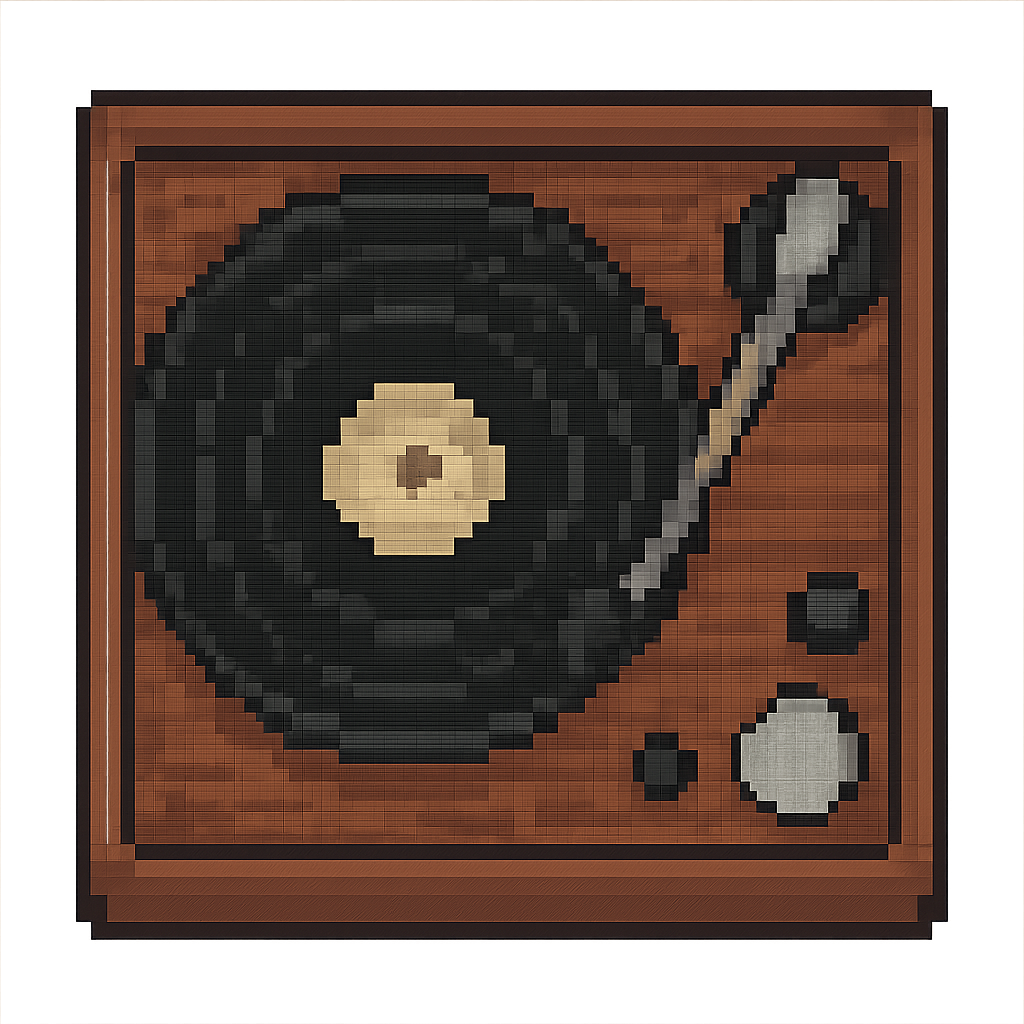
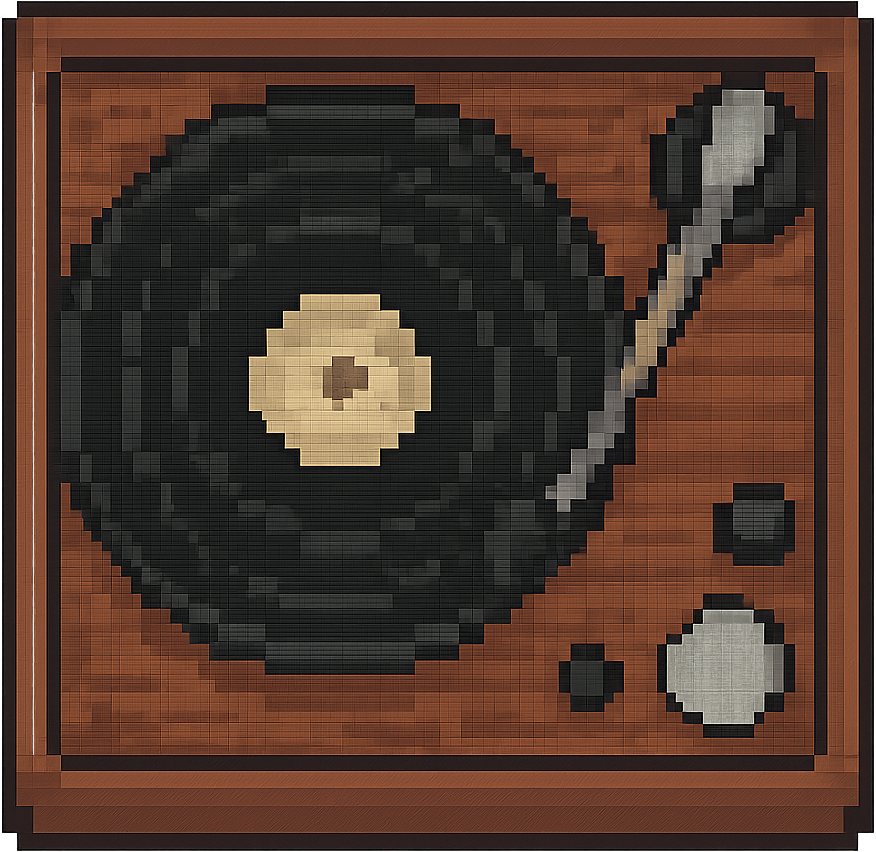
song fix

diff --git a/pages/Song.jsx b/pages/Song.jsx
@@ -1,7 +1,7 @@
 import React, { useRef, useState, useEffect } from 'react';
 import { Link } from 'react-router-dom'
 import Button from '../components/Btn'
-import gifCat from "../src/assets/images/hellokitt.gif"
+import gifSylveon from "../src/assets/images/sylveon.gif"
 import heartRain from "../src/assets/images/heart-rain.gif"
 import MusicPlayer from '../components/songs/MusicPlayer';
 import vinilPlayer from "../src/assets/images/music_player/vp.png"
@@ -25,29 +25,24 @@ const Song = () => {
         <Link to="/"><Button>back</Button></Link>
     </div>
 
-    <div className="flex text-4xl lg:text-5xl font-bold text-center items-center justify-center"> 
+    <div className="flex text-4xl md:text-5xl font-bold text-center items-center justify-center"> 
       <span className="up-down inline-block">essas músicas me lembram você</span>
     </div>
 
     <div className="p-2 md:p-4 flex text-2xl font-bold text-center items-center justify-center"> 
 
-      <div className="w-100 h-100 bg-center bg-size-[400px] relative"  style={{ backgroundImage: `url(${vinilPlayer})` }}>
-        <img className={`w-62 object-cover relative z-10 top-14 left-8  ${isVinil ? 'rotate-on-axis' : ''}`} src={cd} alt="Cd"/>
-        <img className="w-100 object-cover inset-0 absolute z-20 left-0 " src={needle} alt="Cd"/>
+      <div className="w-65 h-63 bg-size-[262px] md:w-100 md:h-97 md:bg-size-[402px] bg-center  relative"  style={{ backgroundImage: `url(${vinilPlayer})` }}>
+        <img className={`w-45 top-5.5 left-2.5 md:w-69.25 md:top-8.5 md:left-4 object-cover relative z-10   ${isVinil ? 'rotate-on-axis' : ''}`} src={cd} alt="Cd"/>
+        <img className="w-19 top-4.5 left-38.25 md:w-29 md:top-7 md:left-59.5 object-cover inset-0 absolute z-20  " src={needle} alt="Cd"/>
 
       </div>
     </div>
     
     <MusicPlayer isVinil={isVinil} setIsVinil={setIsVinil}></MusicPlayer>
 
-    <div className="flex text-2xl font-bold text-center overflow-hidden w-full h-8"> 
-      <span className="">te amo te amo te amo te amo te amo te amo te amo te amo te amo te amo te amo 
-        te amo te amo te amo te amo te amo te amo te amo te amo te amo te amo te amo te amo te amo </span>
-    </div>
-
     <div className="flex w-full text-2xl font-bold text-center justify-around"> 
       <img className="w-25 md:w-40 object-cover inline-block " src={heartRain} alt="Heart Rain"/>
-      <img className="w-25 md:w-40 object-cover inline-block" src={gifCat} alt="Gif Cat"/>
+      <img className="w-25 md:w-40 object-cover inline-block" src={gifSylveon} alt="Gif Cat"/>
       <img className="w-25 md:w-40 object-cover inline-block " src={heartRain} alt="Heart Rain"/>
     </div>
 

diff --git a/components/songs/MusicPlayer.jsx b/components/songs/MusicPlayer.jsx
@@ -12,8 +12,8 @@ import songOne from "../../src/assets/songs/matue-maria.mp3"
 import songTwo from "../../src/assets/songs/matue-maria copy.mp3"
 
 const playlist = [
-    { title: "Song One", src: songOne },
-    { title: "Song Two", src: songTwo },
+    { title: "Matilda - Harry Styles", desc: "oii", src: songOne },
+    { title: "Song Two", desc: "oii", src: songTwo },
 ];
 
 const MusicPlayer = ({setIsVinil}) => {
@@ -125,7 +125,7 @@ const MusicPlayer = ({setIsVinil}) => {
 
 
     return (
-    <div className="flex flex-col text-center gap-4 justify-center items-center text-4xl lg:text-xl font-bold p-4"> 
+    <div className="flex flex-col text-center gap-4 justify-center items-center text-4xl lg:text-xl font-bold p-4 pl-0 pr-0 md:p-4"> 
 
         <h2 className="text-xl font-bold">{currentSong.title}</h2>
 
@@ -136,7 +136,7 @@ const MusicPlayer = ({setIsVinil}) => {
         onEnded={handleNext}
         />
 
-        <div className="flex flex-wrap bg-pink-200 justify-center p-3 gap-4 items-center shadow-[-3px_-3px_0_0_#d63384,3px_3px_0_0_#d63384]">
+        <div className="flex flex-wrap bg-pink-200 justify-center p-2 md:p-3 gap-2 md:gap-4 items-center shadow-[-3px_-3px_0_0_#d63384,3px_3px_0_0_#d63384]">
 
     
             <div className="flex gap-1">
@@ -160,7 +160,7 @@ const MusicPlayer = ({setIsVinil}) => {
 
 
             {/* track time bar */}
-            <input type="range" min="0" max="100" value={progress} onChange={handleSeek} className="w-48 h-2 bg-pink-700 pink-slider rounded-lg
+            <input type="range" min="0" max="100" value={progress} onChange={handleSeek} className="w-24 md:w-48 h-2 bg-pink-700 pink-slider rounded-lg
             appearance-none cursor-pointer"/>
 
             {/* Full Time Display */}
@@ -168,7 +168,7 @@ const MusicPlayer = ({setIsVinil}) => {
                 <span>{formatTime(duration)}</span>
             </div>
 
-            <div className="flex space-x-1 items-center">
+            <div className="hidden md:flex space-x-1 items-center">
                 <MpButton onClick={muteVolume}>
                     <img className="w-8 object-cover" src={volume > 0 ? volumebtn : novolume} alt="Volume Button"/>
                 </MpButton>
@@ -179,9 +179,10 @@ const MusicPlayer = ({setIsVinil}) => {
                     step="0.01"
                     value={volume}
                     onChange={handleVolumeChange}
-                    className="w-24 h-2 bg-pink-700 pink-slider appearance-none rounded-lg cursor-pointer"
+                    className="w-18 md:w-24 h-2 bg-pink-700 pink-slider appearance-none rounded-lg cursor-pointer"
                 />
             </div>
+
 
 
         </div>

diff --git a/pages/Photos.jsx b/pages/Photos.jsx
@@ -14,7 +14,7 @@ const Photos = () => {
         <Link to="/"><Button>back</Button></Link>
     </div>
 
-    <div className="flex text-4xl lg:text-5xl font-bold text-center items-center justify-center"> 
+    <div className="flex text-4xl md:text-5xl font-bold text-center items-center justify-center"> 
       <span className="up-down inline-block">nossas memórias juntos</span>
     </div>
 
@@ -24,7 +24,7 @@ const Photos = () => {
       </span>
     </div>
     
-    <div className=" flex flex-wrap text-center justify-center items-center gap-6 text-4xl lg:text-5xl font-bold p-4"> 
+    <div className=" flex flex-wrap text-center justify-center items-center gap-6 text-4xl md:text-5xl font-bold p-4"> 
 
       {imagesArray.map((props, index) => {
                 return (

diff --git a/pages/Home.jsx b/pages/Home.jsx
@@ -8,7 +8,7 @@ const Home = () => {
   return (
   <div className="container w-full min-h-screen flex flex-col justify-around items-center mx-auto gap-3 md:gap-6 py-10 px-2 sm:px-6 md:px-8 lg:px-10">
 
-    <div className="flex text-4xl lg:text-5xl font-bold text-center justify-center">
+    <div className="flex text-4xl md:text-5xl font-bold text-center justify-center">
       <span className="up-down inline-block"> Feliz dia dos namorados, com carinho pro meu amor!</span>
     </div>
 
